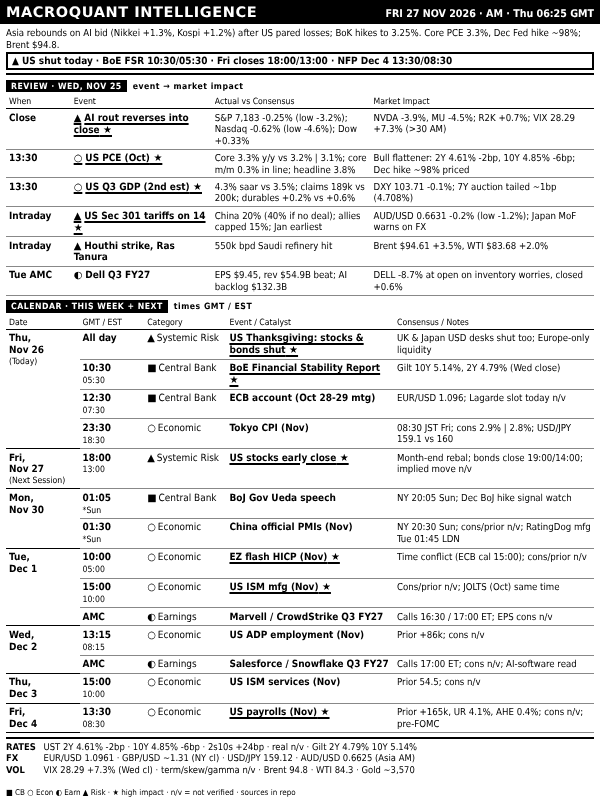
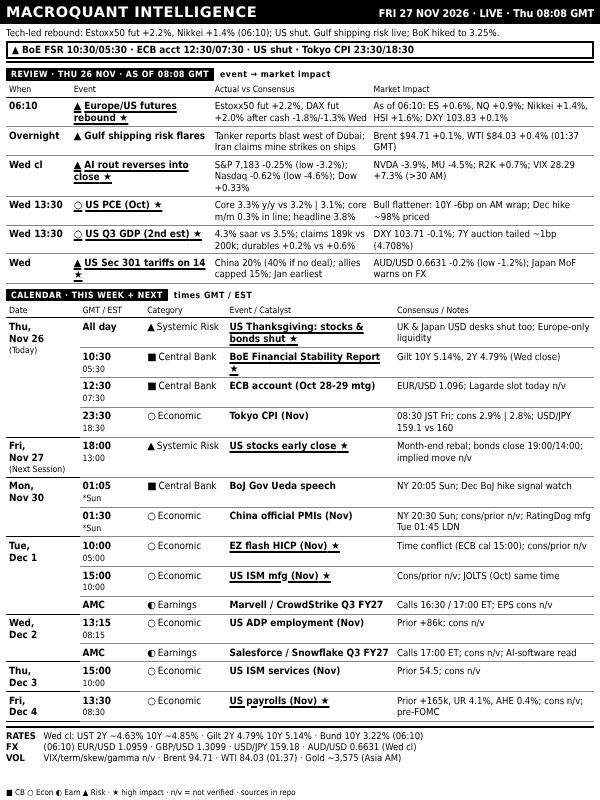
dashboard: FRI 27 NOV 2026 LIVE 08:08
Claude-Session: https://claude.ai/code/session_016SJqa3d3xV3qe2PjLu2VFH

Changed region(s): [[0.0, 0.0, 0.99, 0.9688]]

diff --git a/out/dashboard.html b/out/dashboard.html
@@ -38,12 +38,12 @@ table.bd{border-collapse:collapse;width:100%;table-layout:fixed;margin-top:1px}
 </style></head><body>
 <div id="root">
  <div class="hdr"><span class="t">MACROQUANT INTELLIGENCE</span>
-  <span class="r">FRI 27 NOV 2026 · AM · Thu 06:25 GMT</span></div>
- <div class="ban"><div class="rg">Asia rebounds on AI bid (Nikkei +1.3%, Kospi +1.2%) after US pared losses; BoK hikes to 3.25%. Core PCE 3.3%, Dec Fed hike ~98%; Brent $94.8.</div><div class="al">▲ US shut today · BoE FSR 10:30/05:30 · Fri closes 18:00/13:00 · NFP Dec 4 13:30/08:30</div></div>
- <div class="sl"><span>REVIEW · WED, NOV 25</span>event → market impact</div><table class="bd rv"><colgroup><col style="width:11%"><col style="width:24%"><col style="width:27%"><col></colgroup><tr><th>When</th><th>Event</th><th>Actual vs Consensus</th><th>Market Impact</th></tr><tr class="h"><td class="tm"><b>Close</b></td><td class="ev"><i>▲</i>AI rout reverses into close</td><td class="ac">S&amp;P 7,183 -0.25% (low -3.2%); Nasdaq -0.62% (low -4.6%); Dow +0.33%</td><td class="nt">NVDA -3.9%, MU -4.5%; R2K +0.7%; VIX 28.29 +7.3% (&gt;30 AM)</td></tr><tr class="h"><td class="tm"><b>13:30</b></td><td class="ev"><i>○</i>US PCE (Oct)</td><td class="ac">Core 3.3% y/y vs 3.2% | 3.1%; core m/m 0.3% in line; headline 3.8%</td><td class="nt">Bull flattener: 2Y 4.61% -2bp, 10Y 4.85% -6bp; Dec hike ~98% priced</td></tr><tr class="h"><td class="tm"><b>13:30</b></td><td class="ev"><i>○</i>US Q3 GDP (2nd est)</td><td class="ac">4.3% saar vs 3.5%; claims 189k vs 200k; durables +0.2% vs +0.6%</td><td class="nt">DXY 103.71 -0.1%; 7Y auction tailed ~1bp (4.708%)</td></tr><tr class="h"><td class="tm"><b>Intraday</b></td><td class="ev"><i>▲</i>US Sec 301 tariffs on 14</td><td class="ac">China 20% (40% if no deal); allies capped 15%; Jan earliest</td><td class="nt">AUD/USD 0.6631 -0.2% (low -1.2%); Japan MoF warns on FX</td></tr><tr><td class="tm"><b>Intraday</b></td><td class="ev"><i>▲</i>Houthi strike, Ras Tanura</td><td class="ac">550k bpd Saudi refinery hit</td><td class="nt">Brent $94.61 +3.5%, WTI $83.68 +2.0%</td></tr><tr><td class="tm"><b>Tue AMC</b></td><td class="ev"><i>◐</i>Dell Q3 FY27</td><td class="ac">EPS $9.45, rev $54.9B beat; AI backlog $132.3B</td><td class="nt">DELL -8.7% at open on inventory worries, closed +0.6%</td></tr></table>
+  <span class="r">FRI 27 NOV 2026 · LIVE · Thu 08:08 GMT</span></div>
+ <div class="ban"><div class="rg">Tech-led rebound: Estoxx50 fut +2.2%, Nikkei +1.4% (06:10); US shut. Gulf shipping risk live; BoK hiked to 3.25%.</div><div class="al">▲ BoE FSR 10:30/05:30 · ECB acct 12:30/07:30 · US shut · Tokyo CPI 23:30/18:30</div></div>
+ <div class="sl"><span>REVIEW · THU 26 NOV · AS OF 08:08 GMT</span>event → market impact</div><table class="bd rv"><colgroup><col style="width:11%"><col style="width:24%"><col style="width:27%"><col></colgroup><tr><th>When</th><th>Event</th><th>Actual vs Consensus</th><th>Market Impact</th></tr><tr class="h"><td class="tm"><b>06:10</b></td><td class="ev"><i>▲</i>Europe/US futures rebound</td><td class="ac">Estoxx50 fut +2.2%, DAX fut +2.0% after cash -1.8%/-1.3% Wed</td><td class="nt">As of 06:10: ES +0.6%, NQ +0.9%; Nikkei +1.4%, HSI +1.6%; DXY 103.83 +0.1%</td></tr><tr><td class="tm"><b>Overnight</b></td><td class="ev"><i>▲</i>Gulf shipping risk flares</td><td class="ac">Tanker reports blast west of Dubai; Iran claims mine strikes on ships</td><td class="nt">Brent $94.71 +0.1%, WTI $84.03 +0.4% (01:37 GMT)</td></tr><tr class="h"><td class="tm"><b>Wed cl</b></td><td class="ev"><i>▲</i>AI rout reverses into close</td><td class="ac">S&amp;P 7,183 -0.25% (low -3.2%); Nasdaq -0.62% (low -4.6%); Dow +0.33%</td><td class="nt">NVDA -3.9%, MU -4.5%; R2K +0.7%; VIX 28.29 +7.3% (&gt;30 AM)</td></tr><tr class="h"><td class="tm"><b>Wed 13:30</b></td><td class="ev"><i>○</i>US PCE (Oct)</td><td class="ac">Core 3.3% y/y vs 3.2% | 3.1%; core m/m 0.3% in line; headline 3.8%</td><td class="nt">Bull flattener: 10Y -6bp on AM wrap; Dec hike ~98% priced</td></tr><tr class="h"><td class="tm"><b>Wed 13:30</b></td><td class="ev"><i>○</i>US Q3 GDP (2nd est)</td><td class="ac">4.3% saar vs 3.5%; claims 189k vs 200k; durables +0.2% vs +0.6%</td><td class="nt">DXY 103.71 -0.1%; 7Y auction tailed ~1bp (4.708%)</td></tr><tr class="h"><td class="tm"><b>Wed</b></td><td class="ev"><i>▲</i>US Sec 301 tariffs on 14</td><td class="ac">China 20% (40% if no deal); allies capped 15%; Jan earliest</td><td class="nt">AUD/USD 0.6631 -0.2% (low -1.2%); Japan MoF warns on FX</td></tr></table>
  <div class="sl"><span>CALENDAR · THIS WEEK + NEXT</span>times GMT / EST</div>
  <table class="bd"><colgroup><col style="width:12.5%"><col style="width:11%"><col style="width:14%"><col style="width:28.5%"><col></colgroup><tr><th>Date</th><th>GMT / EST</th><th>Category</th><th>Event / Catalyst</th><th>Consensus / Notes</th></tr><tr class="g0 h"><td class="dt" rowspan="4">Thu,<br>Nov&nbsp;26<span class="tg">(Today)</span></td><td class="tm"><b>All day</b></td><td class="ct"><i>▲</i>Systemic Risk</td><td class="ev">US Thanksgiving: stocks &amp; bonds shut</td><td class="nt">UK &amp; Japan USD desks shut too; Europe-only liquidity</td></tr><tr class="h"><td class="tm"><b>10:30</b><span>05:30</span></td><td class="ct"><i>■</i>Central Bank</td><td class="ev">BoE Financial Stability Report</td><td class="nt">Gilt 10Y 5.14%, 2Y 4.79% (Wed close)</td></tr><tr class=""><td class="tm"><b>12:30</b><span>07:30</span></td><td class="ct"><i>■</i>Central Bank</td><td class="ev">ECB account (Oct 28-29 mtg)</td><td class="nt">EUR/USD 1.096; Lagarde slot today n/v</td></tr><tr class=""><td class="tm"><b>23:30</b><span>18:30</span></td><td class="ct"><i>○</i>Economic</td><td class="ev">Tokyo CPI (Nov)</td><td class="nt">08:30 JST Fri; cons 2.9% | 2.8%; USD/JPY 159.1 vs 160</td></tr><tr class="g0 h"><td class="dt" rowspan="1">Fri,<br>Nov&nbsp;27<span class="tg">(Next Session)</span></td><td class="tm"><b>18:00</b><span>13:00</span></td><td class="ct"><i>▲</i>Systemic Risk</td><td class="ev">US stocks early close</td><td class="nt">Month-end rebal; bonds close 19:00/14:00; implied move n/v</td></tr><tr class="g0"><td class="dt" rowspan="2">Mon,<br>Nov&nbsp;30</td><td class="tm"><b>01:05</b><span>*Sun</span></td><td class="ct"><i>■</i>Central Bank</td><td class="ev">BoJ Gov Ueda speech</td><td class="nt">NY 20:05 Sun; Dec BoJ hike signal watch</td></tr><tr class=""><td class="tm"><b>01:30</b><span>*Sun</span></td><td class="ct"><i>○</i>Economic</td><td class="ev">China official PMIs (Nov)</td><td class="nt">NY 20:30 Sun; cons/prior n/v; RatingDog mfg Tue 01:45 LDN</td></tr><tr class="g0 h"><td class="dt" rowspan="3">Tue,<br>Dec&nbsp;1</td><td class="tm"><b>10:00</b><span>05:00</span></td><td class="ct"><i>○</i>Economic</td><td class="ev">EZ flash HICP (Nov)</td><td class="nt">Time conflict (ECB cal 15:00); cons/prior n/v</td></tr><tr class="h"><td class="tm"><b>15:00</b><span>10:00</span></td><td class="ct"><i>○</i>Economic</td><td class="ev">US ISM mfg (Nov)</td><td class="nt">Cons/prior n/v; JOLTS (Oct) same time</td></tr><tr class=""><td class="tm"><b>AMC</b></td><td class="ct"><i>◐</i>Earnings</td><td class="ev">Marvell / CrowdStrike Q3 FY27</td><td class="nt">Calls 16:30 / 17:00 ET; EPS cons n/v</td></tr><tr class="g0"><td class="dt" rowspan="2">Wed,<br>Dec&nbsp;2</td><td class="tm"><b>13:15</b><span>08:15</span></td><td class="ct"><i>○</i>Economic</td><td class="ev">US ADP employment (Nov)</td><td class="nt">Prior +86k; cons n/v</td></tr><tr class=""><td class="tm"><b>AMC</b></td><td class="ct"><i>◐</i>Earnings</td><td class="ev">Salesforce / Snowflake Q3 FY27</td><td class="nt">Calls 17:00 ET; cons n/v; AI-software read</td></tr><tr class="g0"><td class="dt" rowspan="1">Thu,<br>Dec&nbsp;3</td><td class="tm"><b>15:00</b><span>10:00</span></td><td class="ct"><i>○</i>Economic</td><td class="ev">US ISM services (Nov)</td><td class="nt">Prior 54.5; cons n/v</td></tr><tr class="g0 h"><td class="dt" rowspan="1">Fri,<br>Dec&nbsp;4</td><td class="tm"><b>13:30</b><span>08:30</span></td><td class="ct"><i>○</i>Economic</td><td class="ev">US payrolls (Nov)</td><td class="nt">Prior +165k, UR 4.1%, AHE 0.4%; cons n/v; pre-FOMC</td></tr></table>
- <div class="lv"><div><b>RATES</b>UST 2Y 4.61% -2bp · 10Y 4.85% -6bp · 2s10s +24bp · real n/v · Gilt 2Y 4.79% 10Y 5.14%</div><div><b>FX</b>EUR/USD 1.0961 · GBP/USD ~1.31 (NY cl) · USD/JPY 159.12 · AUD/USD 0.6625 (Asia AM)</div><div><b>VOL</b>VIX 28.29 +7.3% (Wed cl) · term/skew/gamma n/v · Brent 94.8 · WTI 84.3 · Gold ~3,570</div></div>
+ <div class="lv"><div><b>RATES</b>Wed cl: UST 2Y ~4.63% 10Y ~4.85% · Gilt 2Y 4.79% 10Y 5.14% · Bund 10Y 3.22% (06:10)</div><div><b>FX</b>(06:10) EUR/USD 1.0959 · GBP/USD 1.3099 · USD/JPY 159.18 · AUD/USD 0.6631 (Wed cl)</div><div><b>VOL</b>VIX/term/skew/gamma n/v · Brent 94.71 · WTI 84.03 (01:37) · Gold ~3,575 (Asia AM)</div></div>
 </div>
 <div class="foot">■ CB ○ Econ ◐ Earn ▲ Risk · ★ high impact · n/v = not verified · sources in repo</div>
 </body></html>
